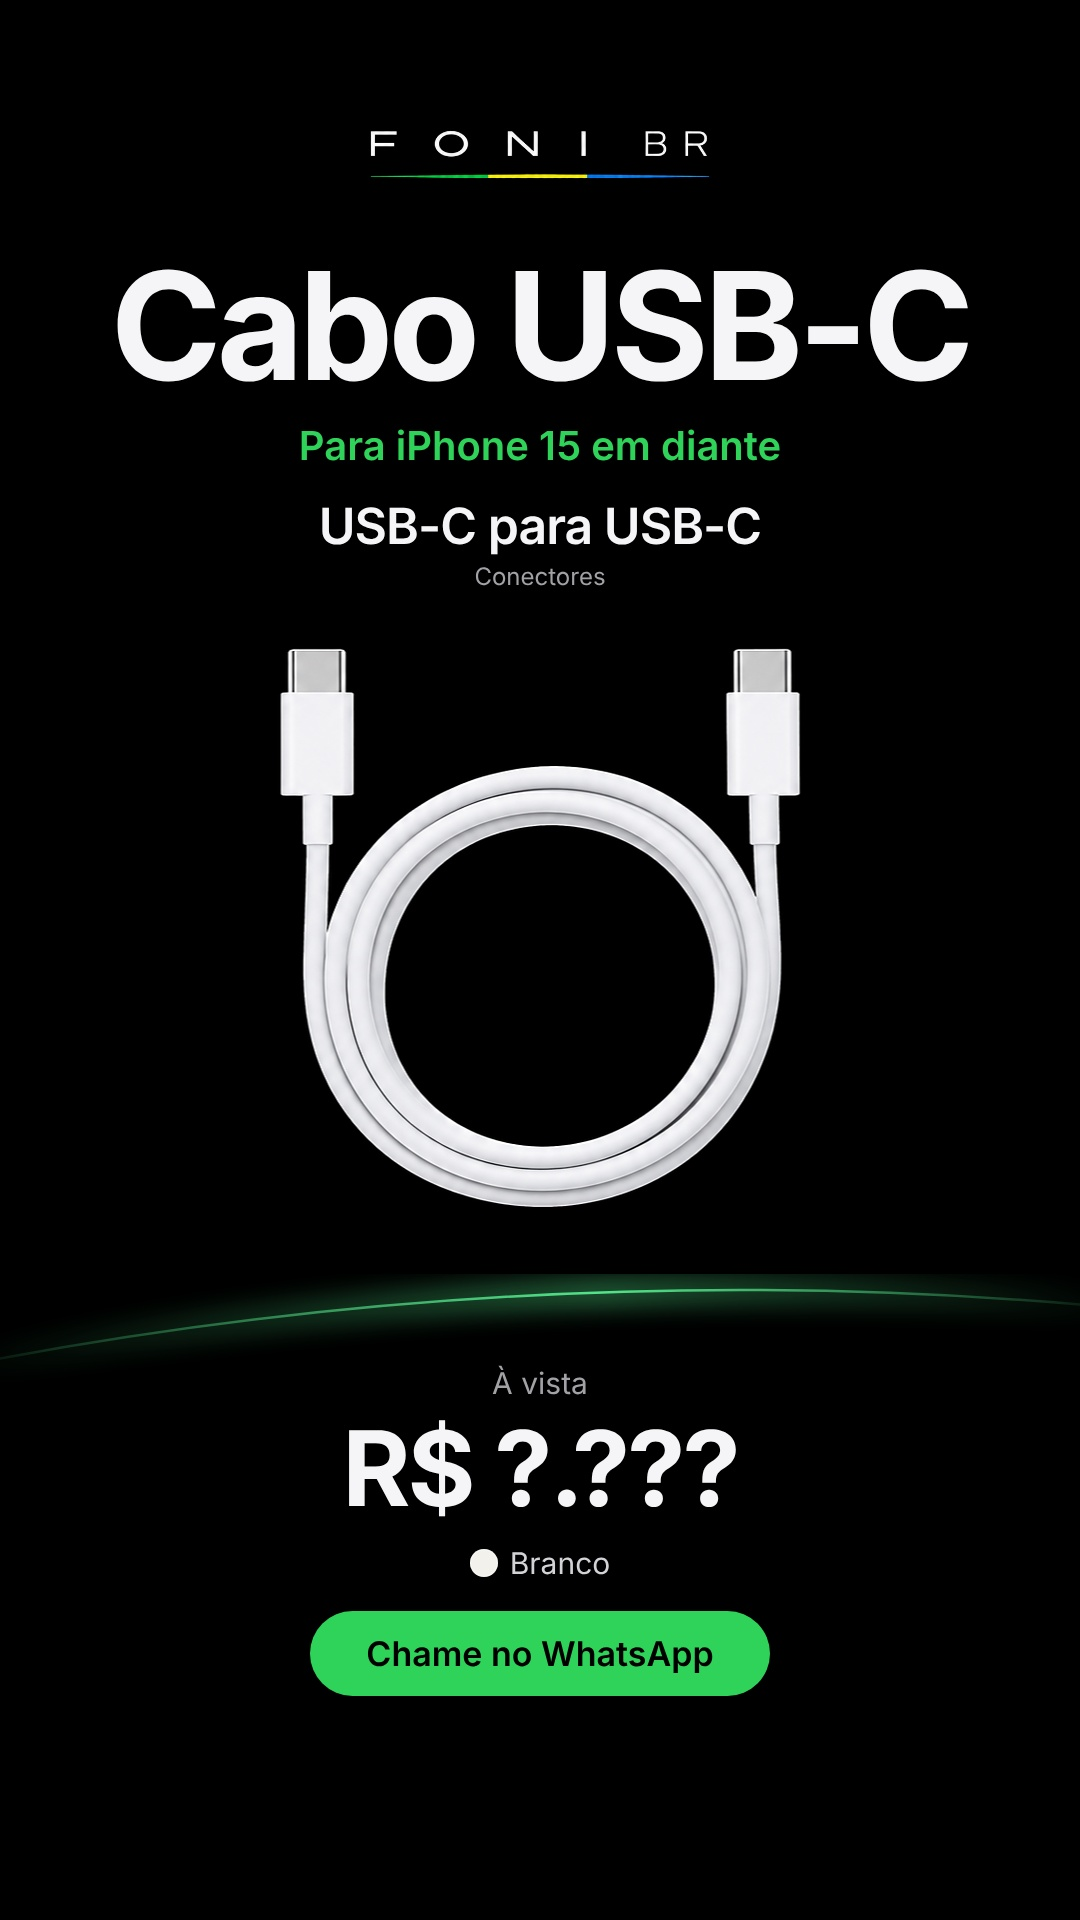
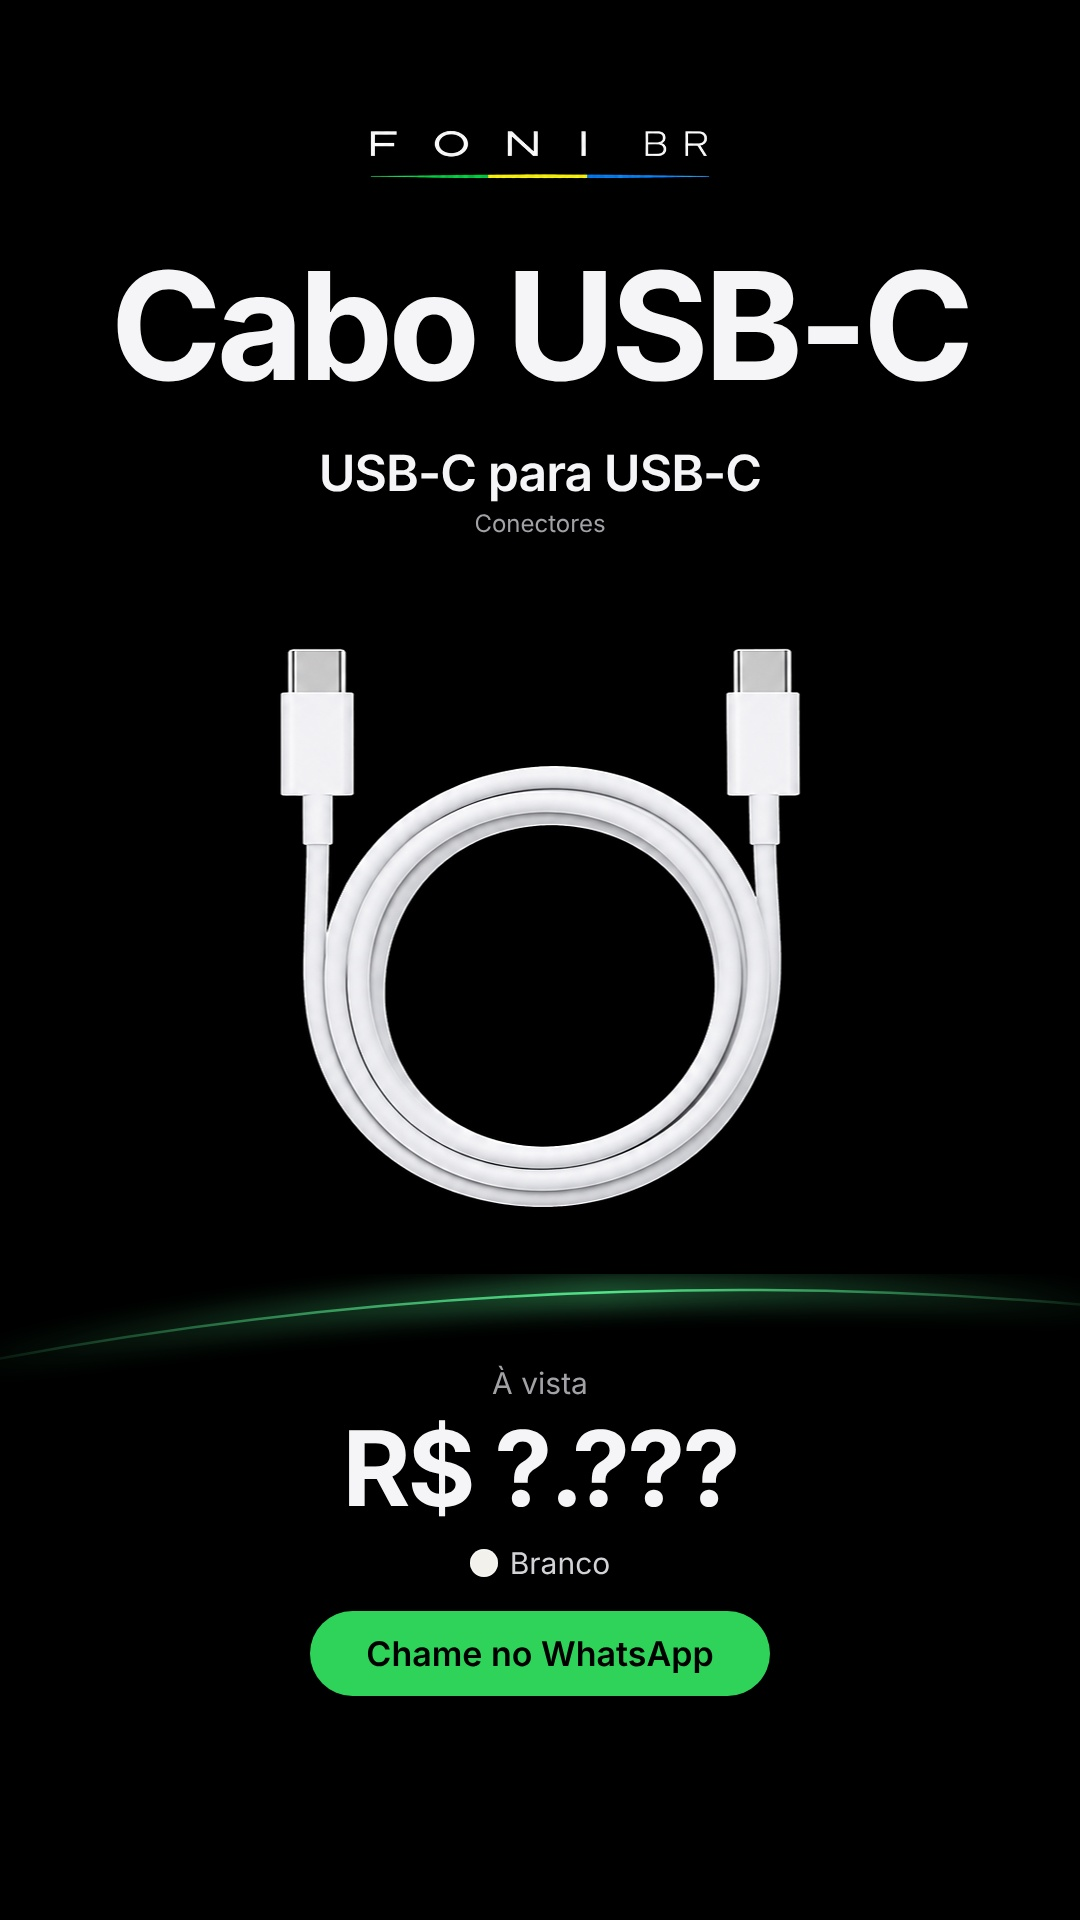
Cabo USB-C: remove linha 'Para iPhone 15 em diante'
Claude-Session: https://claude.ai/code/session_019vjRdqEKRKmJkiD9USJGwJ

Changed region(s): [[0.275, 0.2188, 0.7333, 0.3125]]

diff --git a/ferramentas/anuncio_produto/fichas.py b/ferramentas/anuncio_produto/fichas.py
@@ -56,7 +56,7 @@ FICHAS = {
     "fonte_usbc": dict(modelo="Fonte USB-C", cond="Carregador de tomada", specs="USB-C:Saída",
                        preco=PENDENTE, cores="Branco", garantia="", tamanho="pro",
                        foto="fonte-cabo-usbc/fonte_usbc.png"),
-    "cabo_usbc": dict(modelo="Cabo USB-C", cond="Para iPhone 15 em diante", specs="USB-C para USB-C:Conectores",
+    "cabo_usbc": dict(modelo="Cabo USB-C", cond="", specs="USB-C para USB-C:Conectores",
                       preco=PENDENTE, cores="Branco", garantia="", tamanho="pro",
                       foto="fonte-cabo-usbc/cabo_usbc.png"),
 }
